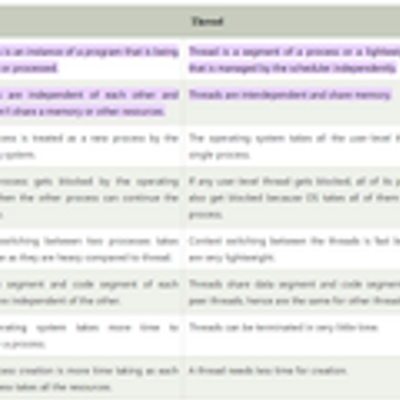
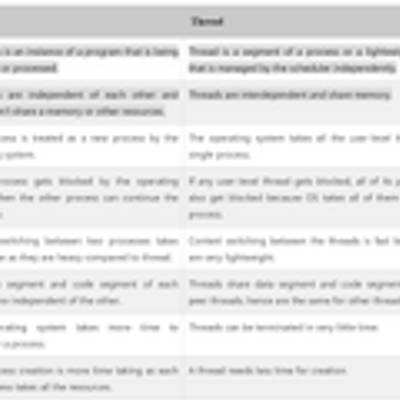
added Grey filter

Changed region(s): [[0.0, 0.09, 1.0, 0.18], [0.0, 0.21, 0.45, 0.3], [0.48, 0.21, 0.99, 0.27]]

diff --git a/src/controllers/imageController.ts b/src/controllers/imageController.ts
@@ -46,7 +46,7 @@ const handleFile = async (req: Request, res: Response): Promise<void> => {
     res.redirect("/");
   } catch (err) {
     console.error(err);
-    errorHandler(err, req, res);
+    throw err;
   }
 };
 
@@ -60,7 +60,7 @@ const getImageList = async (req: Request, res: Response): Promise<void> => {
     res.render("index", { images: imageFiles });
   } catch (err) {
     console.error("Error reading images:", err);
-    errorHandler(err, req, res);
+    throw err;
   }
 };
 
@@ -83,7 +83,7 @@ const resizeImage = async (req: Request, res: Response): Promise<void> => {
     res.status(200).send("Image resized successfully");
   } catch (err) {
     console.error("Error cropping image");
-    errorHandler(err, req, res);
+    throw err;
   }
 };
 
@@ -114,7 +114,7 @@ const cropImage = async (req: Request, res: Response) => {
     res.status(200).send("Image cropped successfully!");
   } catch (err) {
     console.error("Error cropping image:", err);
-    errorHandler(err, req, res);
+    throw err;
   }
 };
 
@@ -124,7 +124,13 @@ const renderWaterMarkForm = (req: Request, res: Response) => {
 };
 const waterMarkImage = async (req: Request, res: Response): Promise<void> => {
   const imageName = req.params.imageName; 
-  console.log(req.file)
+  const imagePath = path.join(__dirname, "..", "../public", "data", imageName);
+
+  try {
+    await fs.promises.access(imagePath, fs.constants.F_OK);
+  } catch (error) {
+    return res.status(400).send({error:"Image file does not exist."});
+  }
 
   try {
     if (!req.file) {
@@ -136,16 +142,45 @@ const waterMarkImage = async (req: Request, res: Response): Promise<void> => {
     if (!isValidImageType(req.file.mimetype)) {
       return res.status(400).send({ error: "File type not valid." });
     }
-      const imagePath = path.join(__dirname, "..", "../public", "data", imageName);
-      console.log(imagePath)
+    
       await applyWatermark(imagePath, req.file.buffer);
 
       res.redirect('/');
   } catch (err) {
       console.error("Error in watermarkController:", err);
-      errorHandler(err, req, res);
+      throw err;
     }
 };
+const applyGreyScale = async(req:Request, res:Response) => {
+  const {imageName} = req.params;
+  if (!imageName || typeof imageName !== 'string') {
+    return res.status(400).send({ error: "Invalid image name." });
+  }
+
+  const imagePath = path.join(__dirname, "..", "../public", "data", imageName);
+  try {
+    await fs.promises.access(imagePath, fs.constants.F_OK);
+  } catch (error) {
+    console.log(error);
+    return res.status(400).send({error:"Image file does not exist."});
+  }
+
+  try{
+    const originalImageBuffer = await fs.promises.readFile(imagePath);
+
+    // Apply greyscale effect
+    const greyscaleImageBuffer = await sharp(originalImageBuffer)
+        .greyscale()
+        .toBuffer();
+    // Write the greyscaled image buffer back to the original file
+    await fs.promises.writeFile(imagePath, greyscaleImageBuffer);
+    res.status(200);
+  }
+  catch (err) {
+    console.error("Error in applyGreyScale:", err);
+    throw err;
+  }
+}
 export {
   uploadImage,
   handleFile,
@@ -156,4 +191,6 @@ export {
   cropImage,
   renderWaterMarkForm,
   waterMarkImage,
+  applyGreyScale,
+  
 };

diff --git a/public/scripts.js b/public/scripts.js
@@ -46,24 +46,43 @@ async function cropImage(filename) {
     console.error("Error cropping image:", error.message);
   }
 }
-// async function applyWaterMark(filename) {
-//   const watermarkImage = document.getElementById("watermarkimage").files[0]; // Get the watermark image file
-//   try {
-//     const response = await fetch(`/watermark/${filename}`, {
-//       method: "PUT",
-//       headers: {
-//         "Content-Type": "image/png", // Adjust content type as needed
-//       },
-//       body: watermarkImage,
-//     });
+async function resizeImage(filename) {
+  const width = document.getElementById("width").value;
+  const height = document.getElementById("height").value;
 
-//     if (response.ok) {
-//       console.log("Watermark applied successfully");
-//       window.location.href = "/";
-//     } else {
-//       throw new Error("Watermark application failed. Please try again.");
-//     }
-//   } catch (error) {
-//     console.error("Error applying watermark:", error.message);
-//   }
-// }
+  try {
+    const response = await fetch(`/resize/${filename}`, {
+      method: "PUT",
+      headers: {
+        "Content-Type": "application/json",
+      },
+      body: JSON.stringify({ width, height }),
+    });
+    console.log("Image resized successfully");
+
+    if (!response.ok) {
+      throw new Error("Image resize failed. Please try again.");
+    }
+    window.location.href = "/";
+  } catch (error) {
+    console.error("Error resizing image:", error.message);
+  }
+}
+
+async function applyGreyScale(filename) {
+  try {
+    const response = await fetch(`/grey/${filename}`, {
+      method: "PUT",
+    });
+
+    if (response.ok) {
+      console.log("Greyscale applied successfully");
+      window.location.href = "/"; // Redirect to home page
+    } else {
+      throw new Error("Greyscale application failed. Please try again.");
+    }
+    window.location.reload();
+  } catch (error) {
+    console.error("Error applying greyscale:", error.message);
+  }
+}

diff --git a/src/utils/errorHandler.ts b/src/utils/errorHandler.ts
@@ -1,7 +1,14 @@
 import multer from "multer";
 import { Response, NextFunction } from "express";
 
-const handleFileUploadError = (err: multer.MulterError, res: Response) => {
+const errorHandler = (
+  err: any,
+  req: Request,
+  res: Response,
+  next: NextFunction,
+) => {
+  console.error(err.stack);
+  let errorMessage: string
   switch (err.code) {
     case "LIMIT_FILE_SIZE":
       res
@@ -18,14 +25,6 @@ const handleFileUploadError = (err: multer.MulterError, res: Response) => {
           error: "Unexpected field. Please check your form data.",
         });
       break;
-    default:
-      res.status(500).render("uploadForm", { error: "Something went wrong.." });
-  }
-};
-const handleResizeError = (err: any, res: Response) => {
-  let errorMessage: string;
-
-  switch (err.code) {
     case "ENOENT":
       errorMessage = "File not found.";
       res.status(404).json({ error: errorMessage });
@@ -48,30 +47,7 @@ const handleResizeError = (err: any, res: Response) => {
       res.status(500).json({ error: errorMessage });
       break;
   }
-};
-const errorHandler = (
-  err: any,
-  req: Request,
-  res: Response,
-) => {
-  console.error(err.stack);
-  if (req.url.startsWith("/resize")) {
-    handleResizeError(err, res);
-  } else if (req.url.startsWith("/upload")) {
-    if (err instanceof multer.MulterError) {
-      // Handle Multer errors for upload endpoint
-      handleFileUploadError(err, res);
-    } else {
-      // Generic error handling for upload endpoint
-      res
-        .status(500)
-        .render("uploadForm", {
-          error: "Error uploading file. Please try again.",
-        });
-    }
-  } else {
-    res.status(500).json({ error: "Internal Server Error" });
-  }
+  next();
 };
 
 export = errorHandler;

diff --git a/src/routes/imageRoutes.ts b/src/routes/imageRoutes.ts
@@ -9,6 +9,7 @@ import {
   cropImage,
   renderWaterMarkForm,
   waterMarkImage,
+  applyGreyScale,
 } from "../controllers/imageController";
 
 const router = express.Router();
@@ -26,6 +27,7 @@ router.put("/resize/:imageName", resizeImage);
 router.get("/watermark/:imageName", renderWaterMarkForm)
 router.post("/watermark/:imageName",uploadImage, waterMarkImage)
 
+router.put("/grey/:imageName", applyGreyScale)
 router.post("/upload", uploadImage, handleFile);
 
 export default router;
